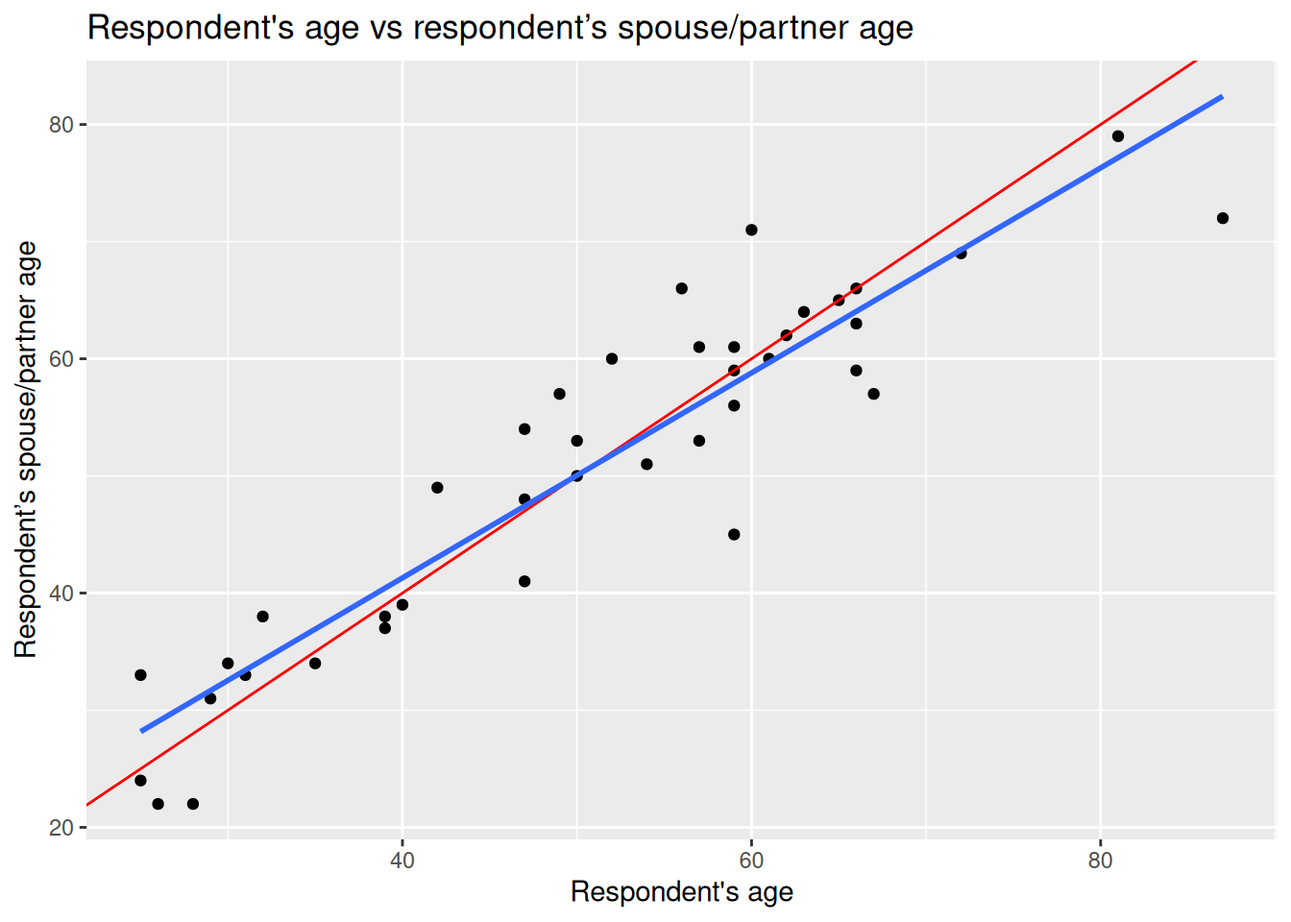
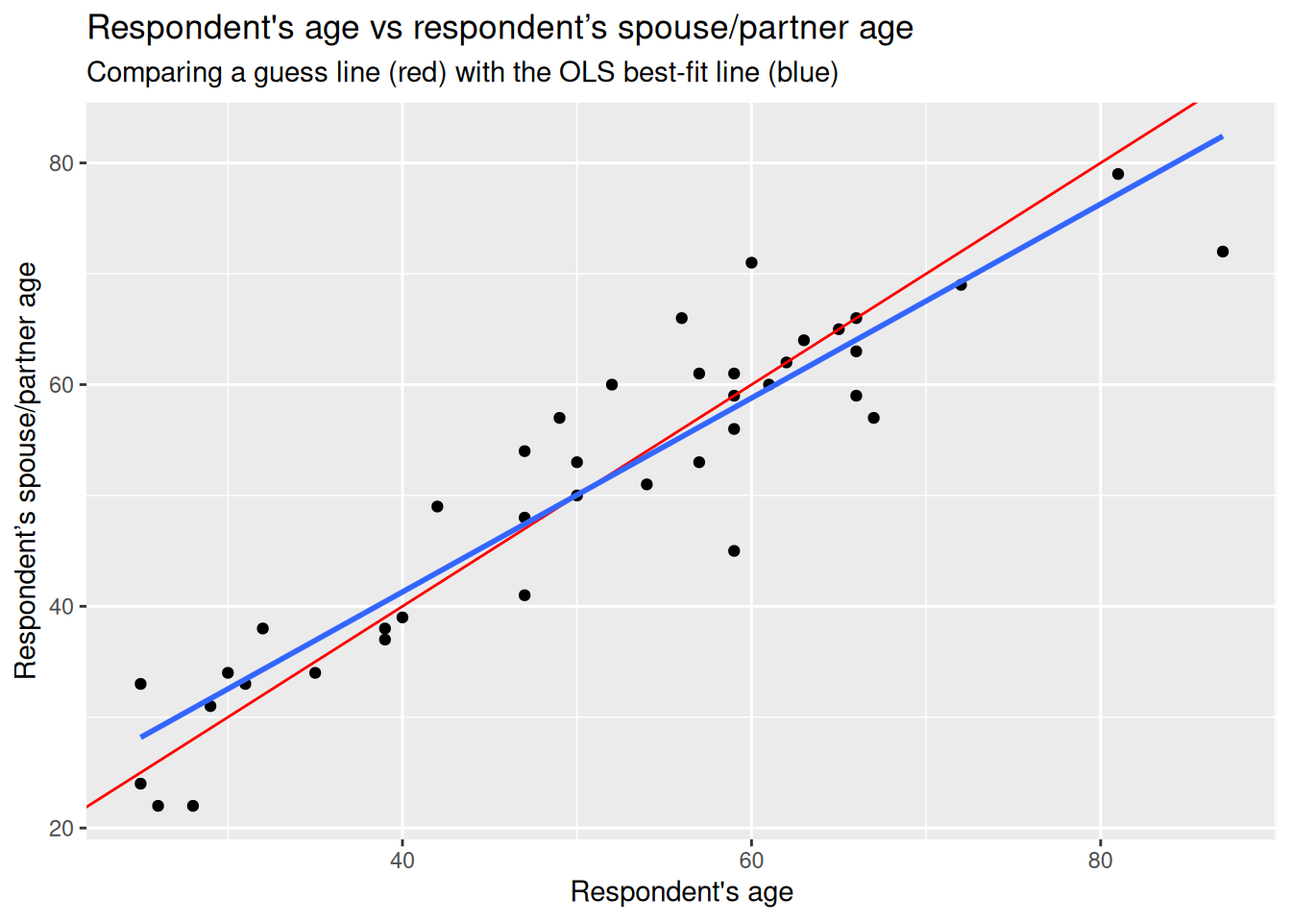
Built site for gh-pages

diff --git a/08-Lab8.html b/08-Lab8.html
@@ -491,7 +491,7 @@ window.Quarto = {
 <!-- main -->
 <main class="content" id="quarto-document-content"><header id="title-block-header" class="quarto-title-block"></header><section id="simple-linear-regression" class="level1"><h1>Simple Linear Regression</h1>
 <section id="welcome" class="level2"><h2 class="anchored" data-anchor-id="welcome">Welcome</h2>
-<p>In the previous lab we learned about correlation. We visualised the relationship of different types of variables. We also computed one correlation measure for two numeric variables, <em>Pearson</em> correlation. This measure is useful to compute the strength and the direction of the association. However, it presents some limitations. It can only be used for numeric variables, it allows only one variable at a time, and it is appropriate to describe a linear relationship.</p>
+<p>In the previous lab we learned about correlation. We visualised the relationship of different types of variables. We also computed one correlation measure for two numeric variables, <em>Pearson’s</em> correlation. We used Pearson’s correlation to summarise the strength and direction of a linear association between two numeric variables. However, it presents some limitations. It can only be used for numeric variables, it allows only one pair of variables at a time, and it is only appropriate to describe a linear relationship.</p>
 <p>Linear regression can overcome some of these limitations and it can be extended to achieve further purposes, such as using multiple variables or to make predictions for new scenarios. This technique is in fact common and one of the most popular in quantitative research in social sciences. Therefore, getting familiar with it will be important for you not only to perform your own analyses, but also to interpret and critically read the academic literature.</p>
 <div class="callout callout-style-simple callout-important">
 <div class="callout-body d-flex">
@@ -500,7 +500,7 @@ window.Quarto = {
 </div>
 <div class="callout-body-container">
 <p>Linear regression is appropriate only when the <strong>dependent</strong> variable is <strong>numeric</strong> (interval/ratio).</p>
-<p>However, the <strong>independent</strong> variables can be <strong>categorical</strong>, <strong>ordinal</strong>, or <strong>numeric</strong>. Also, you can include more than one independent variable to evaluate how these relate to the dependent variable. In this lab we will start using only one explanatory variable. This is known as simple linear regression.</p>
+<p>However, <strong>independent</strong> variables can be <strong>categorical</strong>, <strong>ordinal</strong>, or <strong>numeric</strong>. You can include <strong>more than one</strong> independent variable to evaluate how these relate to the dependent variable. In this lab we will start using only one explanatory variable. This is known as simple linear regression.</p>
 </div>
 </div>
 </div>
@@ -514,7 +514,7 @@ window.Quarto = {
 </div>
 </div>
 <div class="callout-body-container callout-body">
-<p>We will be covering linear regression over three weeks. Do not worry if everything we cover in the lab this week doesn’t all immediately make full sense. We will review and build upon key concepts we cover today over labs 9 and 10 as well.</p>
+<p>We will be covering linear regression over three weeks. Do not worry if everything this week doesn’t immediately make sense. We will revisit and build upon key ideas over labs 9 and 10 as well.</p>
 <p>Please also do let me (Alasdair) know where anything is unclear or is confusing. We have been updating the lab content this year based on student feedback from previous years and value any feedback on the newest version so we can continue to make improvements.</p>
 <p>As they cover some key concepts relevant for the summative assignment, I will aim to make further updates this year to Labs 8 - 10 based on any initial feedback.</p>
 </div>
@@ -525,7 +525,7 @@ window.Quarto = {
 <p>As usual, we will need to setup an R Markdown file for today’s lab. Remember if you are unsure about any of the steps below you can take a look back at <a href="./06-Lab6.html">Lab 6</a> which has more detailed explanation of each of the steps.</p>
 <p>To set up a new R Markdown file for this lab, please use the following steps:</p>
 <ol type="1">
-<li>Please go to your ‘Lab Group ##’ in <a href="https://Posit.cloud/">Posit Cloud</a> (log in if necessary);</li>
+<li>Please go to your ‘Lab Group ##’ in <a href="https://posit.cloud/">Posit Cloud</a> (log in if necessary);</li>
 <li>Open your own copy of the ‘NILT’ project from the ‘Lab Group ##’;</li>
 <li>Within the Files tab (bottom-right pane) click ‘New File’, then ‘R Markdown’ from the drop-down list of options;</li>
 <li>Within the ‘Create a New File in Current Directory’ dialogue, name it ‘Lab-8-Simple-Linear-Regression.Rmd’ and click OK.</li>
@@ -536,7 +536,7 @@ window.Quarto = {
 <div class="code-copy-outer-scaffold"><div class="sourceCode" id="cb1"><pre class="downlit sourceCode r code-with-copy"><code class="sourceCode R"><span><span class="fu">knitr</span><span class="fu">::</span><span class="va"><a href="https://rdrr.io/pkg/knitr/man/opts_chunk.html">opts_chunk</a></span><span class="op">$</span><span class="fu">set</span><span class="op">(</span>message <span class="op">=</span> <span class="cn">FALSE</span>, warning <span class="op">=</span> <span class="cn">FALSE</span><span class="op">)</span></span></code></pre></div><button title="Copy to Clipboard" class="code-copy-button"><i class="bi"></i></button></div>
 </div>
 <ol start="7" type="1">
-<li>Create another code chunk, named <code>premable</code> and again with <code>include=FALSE</code>. Then add the following in the chunk:</li>
+<li>Create another code chunk, named <code>preamble</code> and again with <code>include=FALSE</code>. Then add the following in the chunk:</li>
 </ol>
 <div class="cell">
 <div class="code-copy-outer-scaffold"><div class="sourceCode" id="cb2"><pre class="downlit sourceCode r code-with-copy"><code class="sourceCode R"><span><span class="co"># Load the packages</span></span>
@@ -550,7 +550,7 @@ window.Quarto = {
 <ol start="8" type="1">
 <li>Run the <code>preamble</code> code chunk and if no errors, then everything is setup for this session.</li>
 </ol></section><section id="dataframe-setup" class="level3"><h3 class="anchored" data-anchor-id="dataframe-setup">Dataframe Setup</h3>
-<p>Let’s re-revisit the example from last week of the relationship between a respondent’s age and their spouse or partner’s age.</p>
+<p>Let’s revisit the example from last week of the relationship between a respondent’s age and their spouse or partner’s age.</p>
 <p>Firstly, let’s coerce the variables for the age of the respondent’s spouse/partner:</p>
 <div class="cell">
 <div class="code-copy-outer-scaffold"><div class="sourceCode" id="cb3"><pre class="downlit sourceCode r code-with-copy"><code class="sourceCode R"><span><span class="co"># Age of Respondent's Spouse / Partner</span></span>
@@ -583,19 +583,20 @@ window.Quarto = {
 </div>
 <p>To break down some of the code here:</p>
 <ul>
-<li>The <code><a href="https://rdrr.io/r/base/Random.html">set.seed()</a></code> function let’s us set a seed for the random number generator to use. Whilst results remain ‘random’, a seed ensures that the results are the same each time the code is run - assuming the code is run in exact same order.</li>
+<li>The <code><a href="https://rdrr.io/r/base/Random.html">set.seed()</a></code> function lets us set a seed to fix the random number generator. Results remain random, but using the same seed means when running code in the <strong>same order</strong> makes the results reproducible.</li>
 <li>We then <code>filter(!is.na(spage))</code>. <code>!</code> is the “NOT” operator, and <code><a href="https://rdrr.io/r/base/NA.html">is.na()</a></code> checks whether a value is NA (i.e.&nbsp;missing data). So, combined it is equivalent to saying “filter to remove all observations where the value for <code>spage</code> is NA”.</li>
 <li>
 <code><a href="https://dplyr.tidyverse.org/reference/sample_n.html">sample_n()</a></code> is then used to randomly select 40 of the observations that remain.</li>
 </ul></section></section><section id="viewing-trends" class="level2"><h2 class="anchored" data-anchor-id="viewing-trends">Viewing Trends</h2>
 <section id="scatter-plots" class="level3"><h3 class="anchored" data-anchor-id="scatter-plots">Scatter Plots</h3>
 <p>Before we introduce linear regression itself, let’s start by visualising the relationship between the ages of the respondent and their spouse/partner.</p>
-<p>We can do this with a scatter plot using the respondent’s spouse/partner age <code>spage</code> on the Y axis, and the respondent’s <code>rage</code> on the X axis. We can do this composing the three key components for each ggplot - <code>ggplot(aes())</code>, <code>geom_...()</code>, and <code><a href="https://ggplot2.tidyverse.org/reference/labs.html">labs()</a></code>.</p>
+<p>We can do this with a scatter plot using the respondent’s spouse/partner age <code>spage</code> on the Y axis, and the respondent’s <code>rage</code> on the X axis. In ggplot, we compose the three key ggplot components - <code>ggplot(aes())</code>, <code>geom_...()</code>, and <code><a href="https://ggplot2.tidyverse.org/reference/labs.html">labs()</a></code>.</p>
 <div class="cell">
 <div class="code-copy-outer-scaffold"><div class="sourceCode" id="cb5"><pre class="downlit sourceCode r code-with-copy"><code class="sourceCode R"><span><span class="va">nilt_sample</span> <span class="op">|&gt;</span> <span class="fu"><a href="https://ggplot2.tidyverse.org/reference/ggplot.html">ggplot</a></span><span class="op">(</span><span class="fu"><a href="https://ggplot2.tidyverse.org/reference/aes.html">aes</a></span><span class="op">(</span>x <span class="op">=</span> <span class="va">rage</span>, y <span class="op">=</span> <span class="va">spage</span><span class="op">)</span><span class="op">)</span> <span class="op">+</span></span>
 <span>  <span class="fu"><a href="https://ggplot2.tidyverse.org/reference/geom_point.html">geom_point</a></span><span class="op">(</span>position <span class="op">=</span> <span class="st">"jitter"</span><span class="op">)</span> <span class="op">+</span></span>
 <span>  <span class="fu"><a href="https://ggplot2.tidyverse.org/reference/labs.html">labs</a></span><span class="op">(</span></span>
 <span>    title <span class="op">=</span> <span class="st">"Respondent's age vs respondent’s spouse/partner age"</span>,</span>
+<span>    subtitle <span class="op">=</span> <span class="st">"Random Sample of 40 Observations"</span>,</span>
 <span>    x <span class="op">=</span> <span class="st">"Respondent's age"</span>, y <span class="op">=</span> <span class="st">"Respondent’s spouse/partner age"</span></span>
 <span>  <span class="op">)</span></span></code></pre></div><button title="Copy to Clipboard" class="code-copy-button"><i class="bi"></i></button></div>
 <div class="cell-output-display">
@@ -615,6 +616,7 @@ window.Quarto = {
 <span>  <span class="fu"><a href="https://ggplot2.tidyverse.org/reference/geom_abline.html">geom_abline</a></span><span class="op">(</span>slope <span class="op">=</span> <span class="fl">1</span>, intercept <span class="op">=</span> <span class="fl">0</span>, colour <span class="op">=</span> <span class="st">"red"</span><span class="op">)</span> <span class="op">+</span></span>
 <span>  <span class="fu"><a href="https://ggplot2.tidyverse.org/reference/labs.html">labs</a></span><span class="op">(</span></span>
 <span>    title <span class="op">=</span> <span class="st">"Respondent's age vs respondent’s spouse/partner age"</span>,</span>
+<span>    subtitle <span class="op">=</span> <span class="st">"Reference line assuming equal ages"</span>,</span>
 <span>    x <span class="op">=</span> <span class="st">"Respondent's age"</span>, y <span class="op">=</span> <span class="st">"Respondent’s spouse/partner age"</span></span>
 <span>  <span class="op">)</span></span></code></pre></div><button title="Copy to Clipboard" class="code-copy-button"><i class="bi"></i></button></div>
 <div class="cell-output-display">
@@ -635,7 +637,7 @@ window.Quarto = {
 </div>
 </div>
 <p>To draw a line like this, we used 0 as the starting value in the <code><a href="https://ggplot2.tidyverse.org/reference/geom_abline.html">geom_abline()</a></code> function. In statistics, this is known as the <em>intercept</em> and it is often represented with a Greek letter and a zero sub-index as <span class="math inline">\(\beta_0\)</span> (beta-naught) or with <span class="math inline">\(\alpha\)</span> (alpha). The location of the intercept can be found along the vertical axis (in this case it is not visible due to ages of respondents and their spouses/partners being 20+).</p>
-<p>The second value we passed to describe the line is the <em>slope</em>, which uses the X axis as the reference. The slope value is multiplied by the value of the X axis. Therefore, a slope of 0 is completely horizontal. In this example, a slope of 1 produces a line at 45º. The slope is often represented with the Greek letter beta and a sequential numeric sub-index like this: <span class="math inline">\(\beta_1\)</span> (beta-one).</p>
+<p>The second value we passed to describe the line is the <em>slope</em>, which uses the X axis as the reference. The slope value is multiplied by the value of the X axis. Therefore, a slope of 0 is completely horizontal. In this example, a slope of 1 produces a line at 45º. The slope is often represented with the Greek letter beta and a sequential numeric sub-index like this: <span class="math inline">\(\beta_1\)</span> (b.</p>
 </section><section id="was-this-a-good-guess" class="level3"><h3 class="anchored" data-anchor-id="was-this-a-good-guess">Was this a good guess?</h3>
 <p>Having drawn a line assuming respondents and their spouses/partners have the same age, how does that compare to our actual data?</p>
 <p>First, let’s create a variable in our dataframe that matches our guess. We can do this by taking the starting point - the ‘intercept’ - and adding the steepness factor - the ‘slope’. We will store the results in a column called <code>line1</code>. After that, we can print the ‘head’ of our dataframe using the <code><a href="https://rdrr.io/r/utils/head.html">head()</a></code> function to see the first few rows.</p>
@@ -668,6 +670,7 @@ window.Quarto = {
 <span>  <span class="fu"><a href="https://ggplot2.tidyverse.org/reference/geom_segment.html">geom_segment</a></span><span class="op">(</span><span class="fu"><a href="https://ggplot2.tidyverse.org/reference/aes.html">aes</a></span><span class="op">(</span>xend <span class="op">=</span> <span class="va">rage</span>, yend <span class="op">=</span> <span class="va">line1</span><span class="op">)</span>, linetype <span class="op">=</span> <span class="st">"dashed"</span><span class="op">)</span> <span class="op">+</span></span>
 <span>  <span class="fu"><a href="https://ggplot2.tidyverse.org/reference/labs.html">labs</a></span><span class="op">(</span></span>
 <span>    title <span class="op">=</span> <span class="st">"Respondent's age vs respondent’s spouse/partner age"</span>,</span>
+<span>    subtitle <span class="op">=</span> <span class="st">"Distances from each point to the guess line (residuals)"</span>,</span>
 <span>    x <span class="op">=</span> <span class="st">"Respondent's age"</span>, y <span class="op">=</span> <span class="st">"Respondent’s spouse/partner age"</span></span>
 <span>  <span class="op">)</span></span></code></pre></div><button title="Copy to Clipboard" class="code-copy-button"><i class="bi"></i></button></div>
 <div class="cell-output-display">
@@ -703,7 +706,7 @@ window.Quarto = {
 </div>
 <p>Coming back once again to the question, is my line good enough?</p>
 <p>We could sum all these residuals as an overall measure to know how good our line is. From the previous plot, we see that some of the expected ages are higher than the actual values, whilst others are below. This produces negative and positive residuals. If we simply sum them, they would compensate each other and this would not tell us much about the overall magnitude of the difference.</p>
-<p>To overcome this problem, we can square each residual - multiple the residual by itself. This will make all of our values positive - “-3 x -3 = 9” - making it possible to sum them all together.</p>
+<p>To overcome this problem, we square each residual - multiply the residual by itself. This will make all of our values positive - “-3 x -3 = 9” - making it possible to sum them all together.</p>
 <p>This is known as the <em>sum of squared residuals</em> (SSR) and we can use this as the criterion to measure how good our line is with respect to the overall trend of the points.</p>
 <p>For line 1, we can easily calculate the SSR as follows:</p>
 <div class="cell">
@@ -715,8 +718,8 @@ window.Quarto = {
 </div>
 <p>The sum of squared residuals for line 1 is 1,325.</p>
 </section><section id="using-a-linear-model" class="level3"><h3 class="anchored" data-anchor-id="using-a-linear-model">Using a Linear Model</h3>
-<p>How does our line though compare to other potential lines we could have drawn to describe the trend? We can try different lines to find the combination of intercept and slope that produces the smallest error (SSR). How can we find though the best line to describe the trend?</p>
-<p>To our luck, we can find the best values using a well established technique called <em>Ordinary Least Squares</em> (OLS). This technique finds the optimal solution by the principle of maxima and minima. We do not need to know the details for now. The important thing is that this procedure guarantees to find a line that produces the smallest possible error (SSR).</p>
+<p>How does our line though compare to other potential lines we could have drawn to describe the trend? We can try different lines to find the combination of intercept and slope that produces the smallest error (SSR). How can we find the best line to describe the trend?</p>
+<p>To our luck, we can find the best values using a well established technique called <em>Ordinary Least Squares</em> (OLS). Ordinary Least Squares chooses the line that minimises the Sum of Squared Residuals (SSR). We do not need to know the details for now. The important thing is that this procedure guarantees to find a line that produces the smallest possible error (SSR).</p>
 <p>In <code>R</code>, it is very simple to fit a linear model and we do not need to go through each of the steps above <strong>manually</strong> nor to memorise all the steps.</p>
 <p>To fit a linear model, simply use the function <code><a href="https://rdrr.io/r/stats/lm.html">lm()</a></code> and save the result in an object called <code>m1</code> (for ‘model 1’) and print it.</p>
 <div class="cell">
@@ -733,7 +736,7 @@ Coefficients:
 </div>
 </div>
 <p>For simple linear regression, the <code><a href="https://rdrr.io/r/stats/lm.html">lm()</a></code> function takes arguments in form of <code>lm(dependent-variable ~ independent-variable, dataframe)</code>, with the <code>~</code> (tilde) operator is used to separate the dependent variable and independent variable.</p>
-<p>So, this is the optimal intercept <span class="math inline">\(\beta_0\)</span> and slope <span class="math inline">\(\beta_1\)</span> that produces the least sum of the square.</p>
+<p>So, this is the optimal intercept <span class="math inline">\(\beta_0\)</span> and slope <span class="math inline">\(\beta_1\)</span> that minimises the Sum of Squared Residuals (SSR).</p>
 <p>Let’s see what the SSR is compared to our original arbitrary guess:</p>
 <div class="cell">
 <div class="code-copy-outer-scaffold"><div class="sourceCode" id="cb16"><pre class="downlit sourceCode r code-with-copy"><code class="sourceCode R"><span><span class="fu"><a href="https://rdrr.io/r/base/sum.html">sum</a></span><span class="op">(</span><span class="fu"><a href="https://rdrr.io/r/stats/residuals.html">residuals</a></span><span class="op">(</span><span class="va">m1</span><span class="op">)</span><span class="op">^</span><span class="fl">2</span><span class="op">)</span></span></code></pre></div><button title="Copy to Clipboard" class="code-copy-button"><i class="bi"></i></button></div>
@@ -742,7 +745,7 @@ Coefficients:
 </div>
 </div>
 <p>Yes, this is better than before. Our line that assumed respondents and their spouse/partner had the same age had an SSR value of 1,325. So, this linear model is better as the SSR value is smaller.</p>
-<p>To help visual it, let’s plot the line we guessed and the optimal line together:</p>
+<p>To help visualise it, let’s plot the line we guessed and the optimal line together:</p>
 <div class="cell">
 <div class="code-copy-outer-scaffold"><div class="sourceCode" id="cb18"><pre class="downlit sourceCode r code-with-copy"><code class="sourceCode R"><span><span class="fu"><a href="https://ggplot2.tidyverse.org/reference/ggplot.html">ggplot</a></span><span class="op">(</span><span class="va">nilt_sample</span>, <span class="fu"><a href="https://ggplot2.tidyverse.org/reference/aes.html">aes</a></span><span class="op">(</span>x <span class="op">=</span> <span class="va">rage</span>, y <span class="op">=</span> <span class="va">spage</span><span class="op">)</span><span class="op">)</span> <span class="op">+</span></span>
 <span>  <span class="fu"><a href="https://ggplot2.tidyverse.org/reference/geom_point.html">geom_point</a></span><span class="op">(</span><span class="op">)</span> <span class="op">+</span></span>
@@ -750,6 +753,7 @@ Coefficients:
 <span>  <span class="fu"><a href="https://ggplot2.tidyverse.org/reference/geom_smooth.html">geom_smooth</a></span><span class="op">(</span>method <span class="op">=</span> <span class="st">"lm"</span>, se <span class="op">=</span> <span class="cn">FALSE</span><span class="op">)</span> <span class="op">+</span></span>
 <span>  <span class="fu"><a href="https://ggplot2.tidyverse.org/reference/labs.html">labs</a></span><span class="op">(</span></span>
 <span>    title <span class="op">=</span> <span class="st">"Respondent's age vs respondent’s spouse/partner age"</span>,</span>
+<span>    subtitle <span class="op">=</span> <span class="st">"Comparing a guess line (red) with the OLS best-fit line (blue)"</span>,</span>
 <span>    x <span class="op">=</span> <span class="st">"Respondent's age"</span>, y <span class="op">=</span> <span class="st">"Respondent’s spouse/partner age"</span></span>
 <span>  <span class="op">)</span></span></code></pre></div><button title="Copy to Clipboard" class="code-copy-button"><i class="bi"></i></button></div>
 <div class="cell-output-display">
@@ -797,12 +801,12 @@ Coefficients:
      3.7039       0.9287  </code></pre>
 </div>
 </div>
-<p>The output first displays the formula employed to estimate the model - under <code>Call:</code>. Then, it show us the estimated values for the intercept and the slope for the age of the respondent, these estimated values are called coefficients.</p>
+<p>The output first displays the formula employed to estimate the model - under <code>Call:</code>. Then, it shows us the estimated values for the intercept and the slope for the age of the respondent, these estimated values are called coefficients.</p>
 <p>In this model, the coefficients differ from the ones in the example above (m1). This is because as we are now using the full <code>nilt</code> dataframe we have more information to fit the line. Despite the difference, we see that the relationship is still in the same direction (positive). In fact, the value of the slope <span class="math inline">\(\beta_1\)</span> did not change much if you look at it carefully (0.87 vs 0.92).</p>
 </section><section id="interpreting-results" class="level3"><h3 class="anchored" data-anchor-id="interpreting-results">Interpreting results</h3>
 <p>But what are the slope and intercept telling us? The first thing to note is that the slope is positive, which means that the relationship between the respondent age and their spouse/partner age are in the same direction. When the age of the respondent goes up, the age of their spouse/partner is expected to go up as well.</p>
 <p>In our model, the intercept does not have a meaningful interpretation on its own. What we mean by saying it is not meaningful is that it would not be logical to say that when the respondent’s age is 0 their partner would be expected to be 3.70 years old. Instead, the interpretations should be made only within the range of the values used to fit the model (the youngest age in this data set is 18).</p>
-<p>The slope can be interpreted as follows: For every year older the respondent is, the partner’s age is expected to change by 0.92. In other words, the respondents are expected to have a partner who is 0.92 times years older than themselves. Or, to put it in more simple terms, for each 1-year increase in the respondent age, the expected spouse/partner age increases by 0.92 years. This means that their partners are expected to be slightly younger.</p>
+<p>The slope can be interpreted as follows: For every year older the respondent is, the partner’s age is expected to change by 0.92. In other words, the respondents are expected to have a partner who is 0.92 times years older than themselves. Or, to put it in more simple terms, for each 1-year increase in the respondent’s age, the expected spouse/partner age increases by 0.92 years. On average then, partners are slightly younger than respondents.</p>
 <p>In this case, the units of the dependent variable are the same as the independent (age vs age) which make it easy to interpret. In reality, there might be more factors that potentially affect how people select their partners, such as gender, education, race/ethnicity, etc. For now, we are keeping things ‘simple’ by using only these two variables.</p>
 <p>Let’s practice with another example. What if we are interested in income?</p>
 <p>We can use annual personal income <code>persinc2</code> as the dependent variable and the number of hours worked a week <code>rhourswk</code> as the independent variable. We’ll assign the result to an object called <code>m3</code> (for ‘model 3’).</p>
@@ -821,7 +825,7 @@ Coefficients:
 </div>
 <p>This time, the coefficients look quite different. The results are telling us that for every additional hour worked a week a respondent is expected to earn £463.2 more a year than other respondent.</p>
 <p>Note that the input units are not the same in the interpretation. The dependent variable is in pounds earned a year and the independent is in hours worked a week. Does this mean that someone who works 0 hours a week is expected to earn £5170.4 a year (given the fitted model <span class="math inline">\(\hat{persinc2} =  5170.4 + 0*463.2\)</span>) or that someone who works 110 hours a week (impossible!) is expected to earn £56K a year? We should only make reasonable interpretations of the coefficients within the range analysed.</p>
-<p>Finally, an important thing to know when interpreting linear models using cross sectional data (data collected in a single time point only) is: <strong><em>correlation does not imply causation</em></strong>. Variables are often correlated with other non-observed variables which may cause the effects observed on the independent variable in reality. This is why we cannot always be sure that X is causing the observed changes on Y.</p>
+<p>Finally, an important thing to know when interpreting linear models using cross-sectional data (data collected in a single time point only) is: <strong><em>correlation does not imply causation</em></strong>. Variables are often correlated with other non-observed variables which may cause the effects observed on the independent variable in reality. This is why we cannot always be sure that X is causing the observed changes on Y.</p>
 </section></section><section id="model-evaluation" class="level2"><h2 class="anchored" data-anchor-id="model-evaluation">Model evaluation</h2>
 <section id="model-summary" class="level3"><h3 class="anchored" data-anchor-id="model-summary">Model summary</h3>
 <p>So far, we have talked about the basics of the linear model. If we print a summary of the model, using the handy <code><a href="https://rdrr.io/r/base/summary.html">summary()</a></code> function, we can obtain more information to evaluate it.</p>
@@ -849,7 +853,7 @@ Multiple R-squared:  0.8989,    Adjusted R-squared:  0.8988
 F-statistic:  5240 on 1 and 589 DF,  p-value: &lt; 2.2e-16</code></pre>
 </div>
 </div>
-<p>There are a lot of numbers from the result. Let’s break down the information into different pieces:</p>
+<p>The summary output has several parts. This can look intimidating at first, but we can break it down bit-by-bit. Let’s focus on:</p>
 <ul>
 <li>first the call</li>
 <li>second the residuals</li>
@@ -862,16 +866,18 @@ F-statistic:  5240 on 1 and 589 DF,  p-value: &lt; 2.2e-16</code></pre>
 <figcaption>Model summary</figcaption></figure>
 </div>
 <p>The first part, <strong>Call</strong>, is simply printing the variables that were used to produce the models.</p>
-<p>The second part, the <strong>Residuals</strong>, provides a small summary of the residuals by quartile, including minimum and maximum residual values. Remember the second part of the formal specification of the model? Well, this is where we can see in practice the distribution of the residuals. If we look at the first and third quartile, we can see that 50% of the predicted values by the model are <span class="math inline">\(\pm\)</span> 2.5 years old away form the observed partner’s age… not that bad.</p>
+<p>The second part, the <strong>Residuals</strong>, provides a small summary of the residuals by quartile, including minimum and maximum residual values. Remember the second part of the formal specification of the model? Well, this is where we can see in practice the distribution of the residuals. The quartiles show typical prediction errors. For example, half of the residuals lie between the 1st and 3rd quartiles. So by looking at the values for the first and third quartile, we can see that half of the predicted values by the model are <span class="math inline">\(\pm\)</span> 2.5 years old away from the observed partner’s age… not that bad.</p>
 <p>The third part is about the <strong>coefficients</strong>. This time, the summary provides more information about the intercept and the slope than just the estimated coefficients as before. Usually, we focus on the independent variables in this section, <code>rage</code> in our case. The second column, standard error, tell us how large the error of the slope is, which is small for our variable. The third and fourth columns provide measures about the statistical significance of the relationship between the dependent and independent variable.</p>
-<p>The most commonly reported is the p-value (the fourth column). When these values contains many digits, R reports the result in scientific notation. In our result the p-value is <code>&lt;2e-16</code> (the real equivalent number is &lt;0.0000000000000002, if you want to know more about scientific notation click <a href="https://www.calculatorsoup.com/calculators/math/scientific-notation-converter.php#:~:text=The%20proper%20format%20for%20scientific,equivalent%20to%20the%20original%20number.">here</a>).</p>
-<p>As a general agreed principle, <strong>if the p-value is equal or less than 0.05 (<span class="math inline">\(p\)</span> ≤ 0.05), we can reject the null hypothesis, and say that the relationship between the dependent variable and the independent is significant.</strong> In our case, the p-value is far lower than 0.05. So, we can say that the relationship between the respondent’s spouse/partner age and the respondent’s age is significant. In fact, R includes codes for each coefficient to help us to identify the significance. In our result, we got three stars/asterisks. This is because the value is less than 0.001. R assigns two stars if the p-value is less than 0.01, and one star if it is lower than 0.05.</p>
-<p>In the fourth area, we have various <strong>goodness-of-fit measures</strong>. Overall, these measures tell us how well the model represents our data. For now, let’s focus on the <em>adjusted r-squared</em> and the sample size. The r-squared is a value that goes from 0 to 1. 0 means that model is not explaining any of the variance, whereas 1 would mean a perfect model. In the social sciences, we do not see high values often. The adjusted r-squared can be understood as the percentage variance that the model is able to explain. In the example above, the model explains 89.88% percent of the total variance. This is a good fit, but this is because we are modelling a quite “obvious” relationship. The r-squared does not represent how good or bad our work is.</p>
-<p>You may wonder why we do not report the sum of squared residuals (SSR), as we covered in our initial example. This is because the scale of the SSR is in the units used to fit the model, which would make it difficult to compare our model with other models that use different units or different variables. Conversely, the adjusted r-squared is expressed in relative terms which makes it a more suitable measure to compare with other models. An important thing to note is that the output is telling us that this model excluded 613 observations which were missing in our dataset. This is because we do not have the age of the respondent’s partner in 613 of the rows. This missingness may be because the respondent does not have a partner, refused to provide the information, etc.</p>
-<p>In academic papers in the social sciences, usually the measures reported are the coefficients, p-values, the adjusted r-squared, and the size of the sample used to fit the model (number of observations).</p>
+<p>The most commonly reported is the p-value (the fourth column). R uses scientific notation for very small p-values. In our result the p-value is <code>&lt;2e-16</code>, which means a number less than 0.0000000000000002, <a href="https://www.calculatorsoup.com/calculators/math/scientific-notation-converter.php#:~:text=The%20proper%20format%20for%20scientific,equivalent%20to%20the%20original%20number.">you can learn about scientific notation here</a>).</p>
+<p>As a general agreed principle, <strong>if the p-value is equal or less than 0.05 (<span class="math inline">\(p\)</span> ≤ 0.05), we can reject the null hypothesis, and say that the relationship between the dependent variable and the independent is significant.</strong> In our case, the p-value is far lower than 0.05. So, we can say that the relationship between the respondent’s spouse/partner age and the respondent’s age is significant. In fact, R includes codes for each coefficient to help us to identify the significance. In our result, we got three stars/asterisks. This is because the value is less than 0.001. R assigns two stars if the p-value is less than 0.01, and one star if it is lower than 0.05. (P‑values, however, are just one part of the story; always read them alongside effect size, confidence intervals, and substantive meaning.)</p>
+<p>In the fourth area, we have various <strong>goodness-of-fit measures</strong>. Overall, these measures tell us how well the model represents our data. For now, let’s focus on the <em>adjusted R-squared</em>.</p>
+<p>R-squared is the proportion of variation in the outcome explained by the model. It ranges from 0 to 1: 0 means none of the variance is explained; 1 means all variance in the sample is explained by the model. Adjusted R-squared penalises adding variables that do not improve the model. In the social sciences, modest R-squared values are common.</p>
+<p>Adjusted R-squared then can be understood as the proportion (multiply it by 100 to report a percentage) of variance explained by the model, adjusted for the number of independent variables used. In our age-age example, the model explains 89.88% percent of the total variance. This is a good fit, but this is because we are modelling a quite “obvious” relationship. The R-squared describes the model file, it does not judge the quality of our analysis.</p>
+<p>You may wonder why we do not report the sum of squared residuals (SSR), as we covered in our initial example. This is because the scale of the SSR is in the units used to fit the model, which would make it difficult to compare our model with other models that use different units or different variables. Conversely, the adjusted R-squared is expressed in relative terms which makes it a more suitable measure to compare with other models. An important thing to note is that the output is telling us that this model excluded 613 observations which were missing in our dataset. This is because we do not have the age of the respondent’s partner in 613 of the rows. Missing spouse/partner ages can occur for serveral reasons. For example, the respondent may not have a parter, or choose not to answer.</p>
+<p>In academic papers in the social sciences, usually the measures reported are the coefficients, p-values, the adjusted R-squared, and the size of the sample used to fit the model (number of observations).</p>
 </section><section id="further-checks" class="level3"><h3 class="anchored" data-anchor-id="further-checks">Further checks</h3>
 <p>The linear model, as many other techniques in statistics, relies on assumptions. These refer to characteristics of the data that are taken for granted to generate the estimates. It is the task of the modeller/analyst to make sure the data used follows these assumptions. One simple yet important check is to examine the distribution of the residuals, which ought to follow a normal distribution.</p>
-<p>Do the residuals follow a normal distribution in our model, <code>m2</code>? We can go further and plot a histogram to graphically evaluate it. Use the function <code><a href="https://rdrr.io/r/stats/residuals.html">residuals()</a></code> to extract the residuals from our object <code>m2</code>, and then plot a histogram with the r-base function <code><a href="https://rdrr.io/r/graphics/hist.html">hist()</a></code>.</p>
+<p>Do the residuals follow a normal distribution in our model, <code>m2</code>? We can go further and plot a histogram to graphically evaluate it. Use the function <code><a href="https://rdrr.io/r/stats/residuals.html">residuals()</a></code> to extract the residuals from our object <code>m2</code>, and then plot a histogram with the base R function <code><a href="https://rdrr.io/r/graphics/hist.html">hist()</a></code>.</p>
 <div class="cell">
 <div class="code-copy-outer-scaffold"><div class="sourceCode" id="cb26"><pre class="downlit sourceCode r code-with-copy"><code class="sourceCode R"><span><span class="fu"><a href="https://rdrr.io/r/graphics/hist.html">hist</a></span><span class="op">(</span><span class="fu"><a href="https://rdrr.io/r/stats/residuals.html">residuals</a></span><span class="op">(</span><span class="va">m2</span><span class="op">)</span>, breaks <span class="op">=</span> <span class="fl">20</span><span class="op">)</span></span></code></pre></div><button title="Copy to Clipboard" class="code-copy-button"><i class="bi"></i></button></div>
 <div class="cell-output-display">
@@ -883,12 +889,12 @@ F-statistic:  5240 on 1 and 589 DF,  p-value: &lt; 2.2e-16</code></pre>
 </div>
 <p>Overall, it seems that the residuals follow the normal distribution reasonably well, with the exception of the negative value to the left of the plot. Very often when there is a strange distribution or different to the normal, it is because one of the assumptions is violated. If that is the case we cannot trust the coefficient estimates. In the next lab we will talk more about the assumptions of the linear model. For now, we will leave it here and get some practice.</p>
 </section></section><section id="lab-activities" class="level2"><h2 class="anchored" data-anchor-id="lab-activities">Lab activities</h2>
-<p>In your R Markdown file, use the <code>nilt</code> dataset in to:</p>
+<p>In your R Markdown file, use the <code>nilt</code> dataset to:</p>
 <ol type="1">
 <li>Plot a scatter plot using <code>ggplot</code>. In the aesthetics, locate <code>rhourswk</code> in the X axis, and <code>persinc2</code> in the Y axis. In the <code><a href="https://ggplot2.tidyverse.org/reference/geom_point.html">geom_point()</a></code> jitter the points by specifying the <code>position = 'jitter'</code>. Also, include the best fit line using the <code><a href="https://ggplot2.tidyverse.org/reference/geom_smooth.html">geom_smooth()</a></code> function, and specify the <code>method = 'lm'</code> inside.</li>
 <li>Print the summary of <code>m3</code> using the <code><a href="https://rdrr.io/r/base/summary.html">summary()</a></code> function.</li>
-<li>Is the relationship of hours worked a week significant?</li>
-<li>What is the adjusted r-squared? How would you interpret it?</li>
+<li>Is the relationship of hours worked a week statistically significant?</li>
+<li>What is the adjusted R-squared? How would you interpret it?</li>
 <li>What is the sample size to fit the model?</li>
 <li>What is the expected income in pounds a year for a respondent who works 30 hours a week according to coefficients of this model?</li>
 <li>Plot a histogram of the residuals of <code>m3</code> using the <code><a href="https://rdrr.io/r/stats/residuals.html">residuals()</a></code> function inside <code><a href="https://rdrr.io/r/graphics/hist.html">hist()</a></code>. Do the residuals look normally distributed (as in a bell-shaped curve)?</li>
